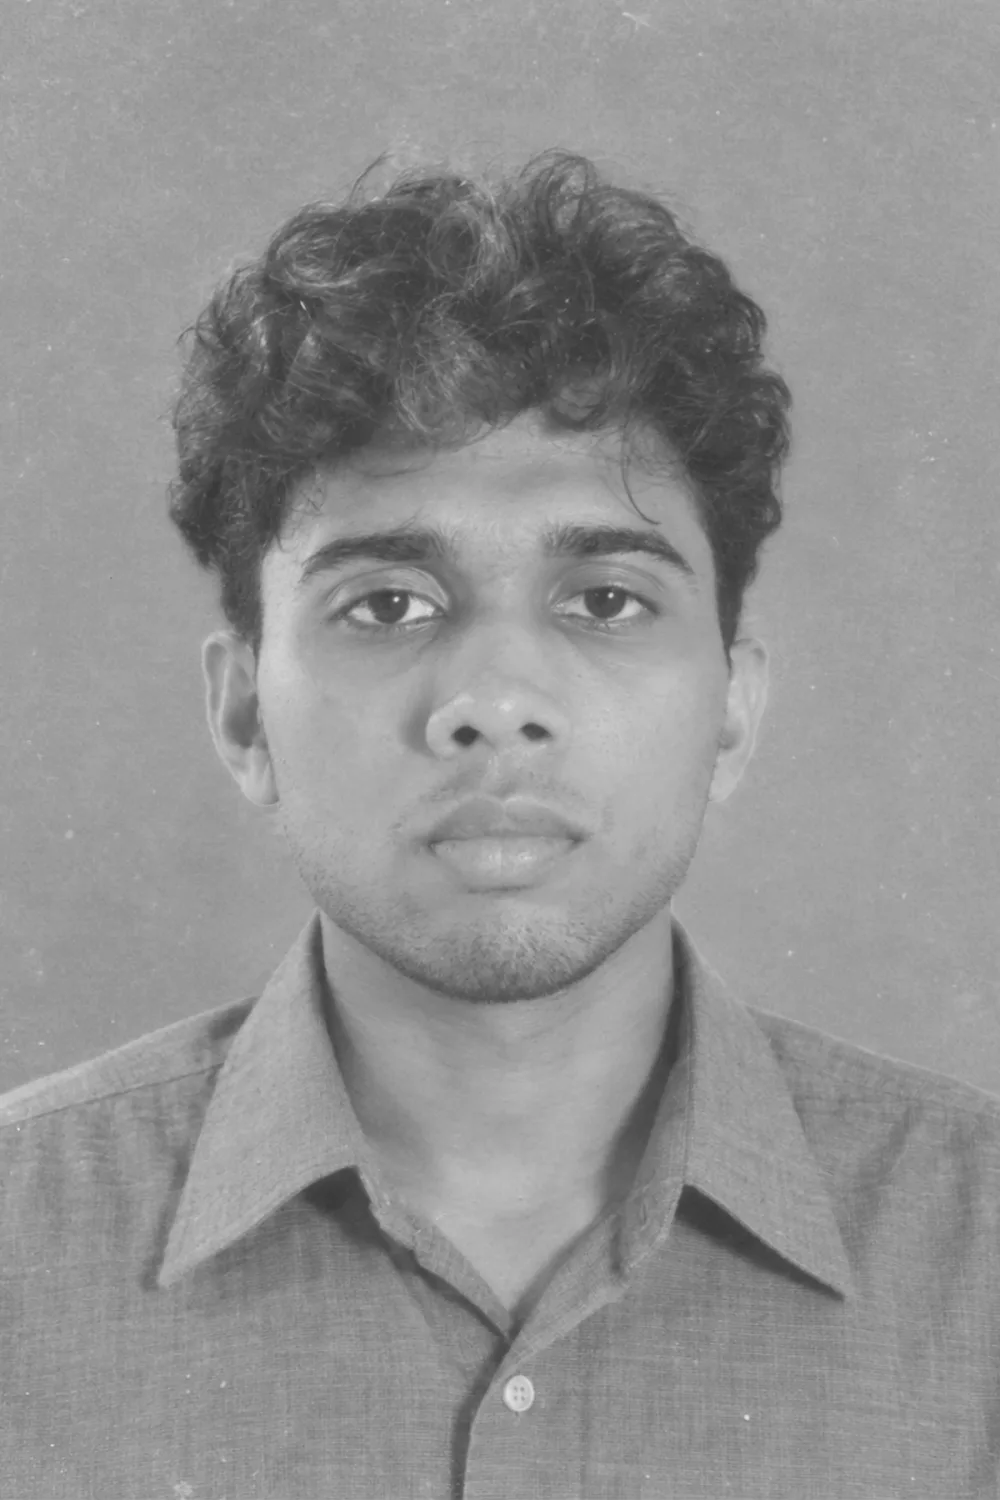
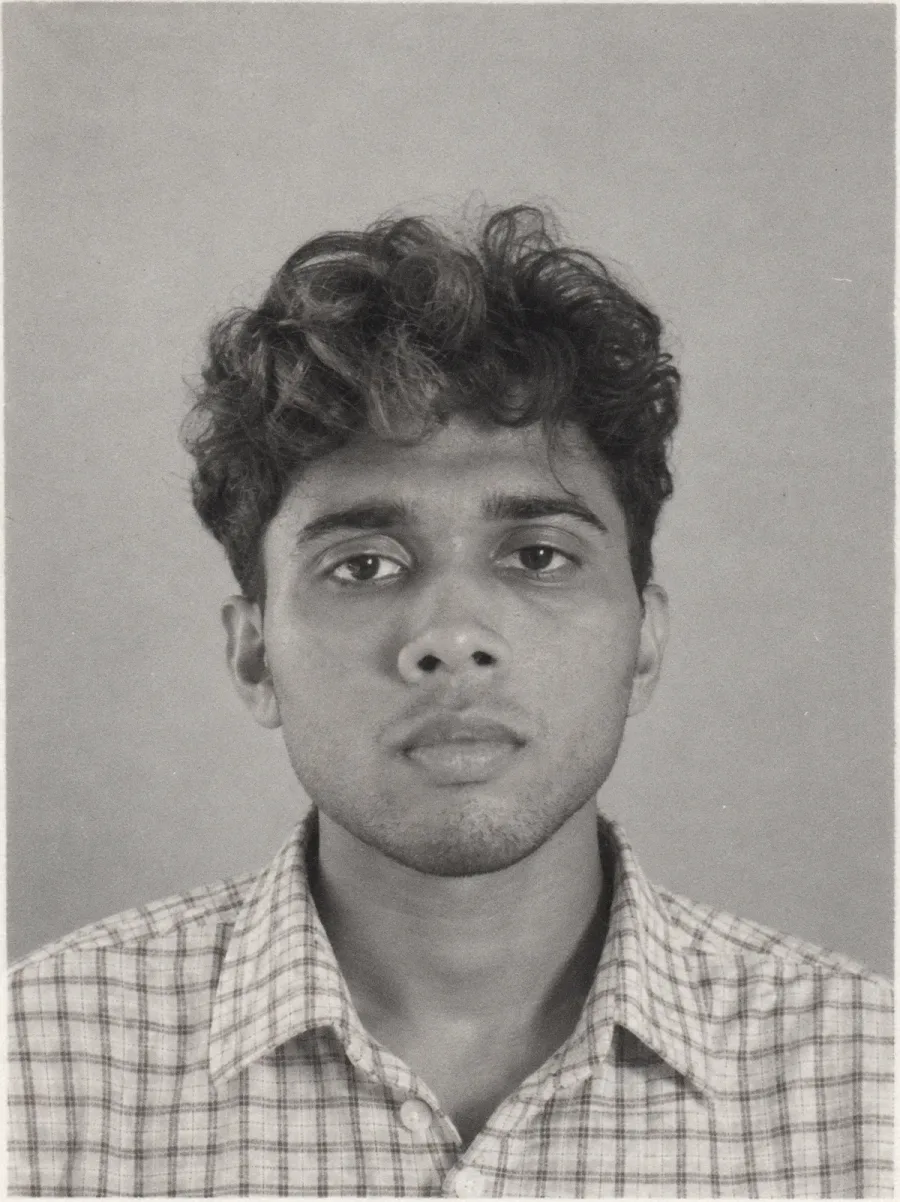
New About photo, shown small beside the text in v2
Replace the portrait with the owner's new photo (3:4). In the v2 preview it
is 140px wide (96px on phones), its top level with the first line of text.

Claude-Session: https://claude.ai/code/session_0168aHRphf9dzANVDPXHjhgS

diff --git a/v2/v2.css b/v2/v2.css
@@ -86,7 +86,8 @@ figcaption { font-style: italic; margin-top: 4px; }
 .next { display: flex; justify-content: space-between; }
 
 /* ---------- about ---------- */
-.about-top { display: grid; grid-template-columns: 320px 1fr; gap: 20px; align-items: start; }
+.about-top { display: grid; grid-template-columns: 140px 1fr; gap: 18px; align-items: start; }
+.about-top .thumb { margin-top: 3px; }   /* top of the photo level with the top of the first line of text */
 .about-top .thumb img { aspect-ratio: auto; }
 .spot iframe { width: 100%; max-width: 640px; height: 80px; border: 0; display: block; }
 .spot + .spot { margin-top: 6px; }
@@ -98,13 +99,11 @@ figcaption { font-style: italic; margin-top: 4px; }
 /* ---------- footer ---------- */
 .foot p { margin: 0 0 .4em; }
 
-@media (max-width: 900px) { .about-top { grid-template-columns: 240px 1fr; } }
 @media (max-width: 560px) {
   .page { padding: 0 12px; }
   .turn { --size: 88px; }
   .list { grid-template-columns: 1fr; }
-  .about-top { grid-template-columns: 1fr; }
-  .about-top .thumb { max-width: 240px; }
+  .about-top { grid-template-columns: 96px 1fr; gap: 12px; }
   .quote, blockquote { margin-left: 16px; margin-right: 16px; }
   pre { margin-left: 1em; }
   .movies { grid-template-columns: repeat(3, 1fr); }

diff --git a/js/main.js b/js/main.js
@@ -204,7 +204,7 @@
       <section class="section">
         <div class="section-head" style="margin-bottom:clamp(32px,5vw,64px)"><p class="label">About</p><p class="label">${esc(S.school)}</p></div>
         <div class="about-grid">
-          ${S.portrait ? `<figure class="portrait"><img src="${esc(S.portrait)}" alt="Portrait of ${esc(S.name)}" width="1000" height="1500" /></figure>` : `<p class="label">About</p>`}
+          ${S.portrait ? `<figure class="portrait"><img src="${esc(S.portrait)}" alt="Portrait of ${esc(S.name)}" width="900" height="1200" /></figure>` : `<p class="label">About</p>`}
           <div class="copy">${S.about.map((t) => `<p>${esc(t)}</p>`).join("")}</div>
           <p class="label">Toolkit</p>
           <div class="skills">${S.skills.map((s) => `<span>${esc(s)}</span>`).join("")}</div>

diff --git a/css/style.css b/css/style.css
@@ -262,7 +262,7 @@ main { min-height: 100vh; padding-top: var(--header-h); outline: none; }
 /* same columns as .about-grid below: photo in the label column, intro in the copy column */
 .about-grid .portrait { grid-column: 1 / span 3; margin: 0 0 48px; }
 .portrait { background: var(--paper-2); }
-.portrait img { width: 100%; height: auto; aspect-ratio: 2 / 3; object-fit: cover; filter: grayscale(1) contrast(1.02); }
+.portrait img { width: 100%; height: auto; aspect-ratio: 3 / 4; object-fit: cover; filter: grayscale(1) contrast(1.02); }
 .about-lede {
   margin: 0; font-size: clamp(28px, 4.2vw, 68px); line-height: 1.04; letter-spacing: -0.035em; font-weight: 500;
   max-width: 18ch;

diff --git a/js/projects.js b/js/projects.js
@@ -24,7 +24,7 @@ window.SITE = {
     instagram: "https://www.instagram.com/geo.subash",
     github: "https://github.com/geosubash-glitch",
   },
-  portrait: "assets/about/portrait.webp?v=2",
+  portrait: "assets/about/portrait.webp?v=3",
   resume: "",                           // e.g. "assets/resume.pdf"
 
   // shown on the About page
